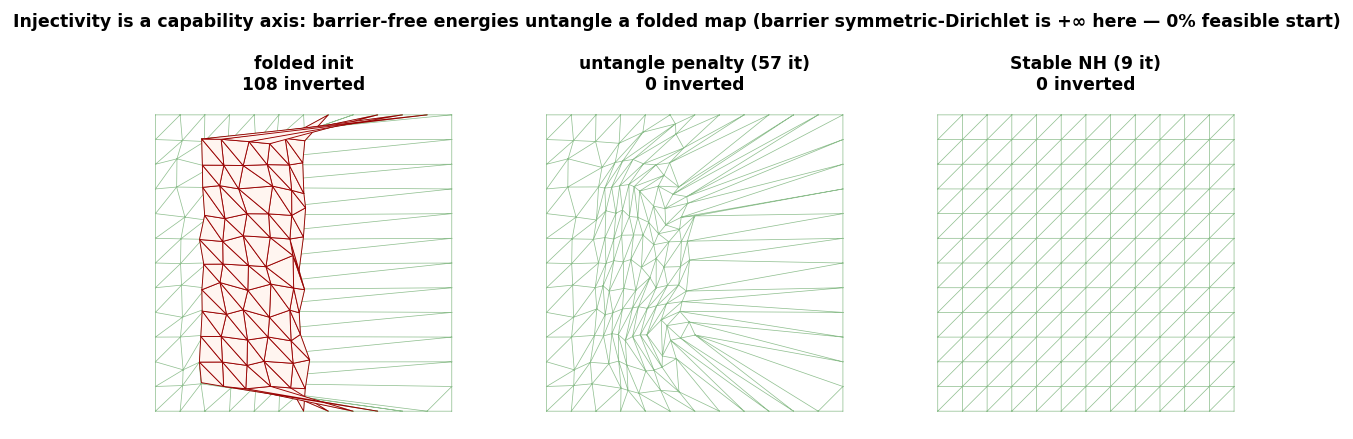
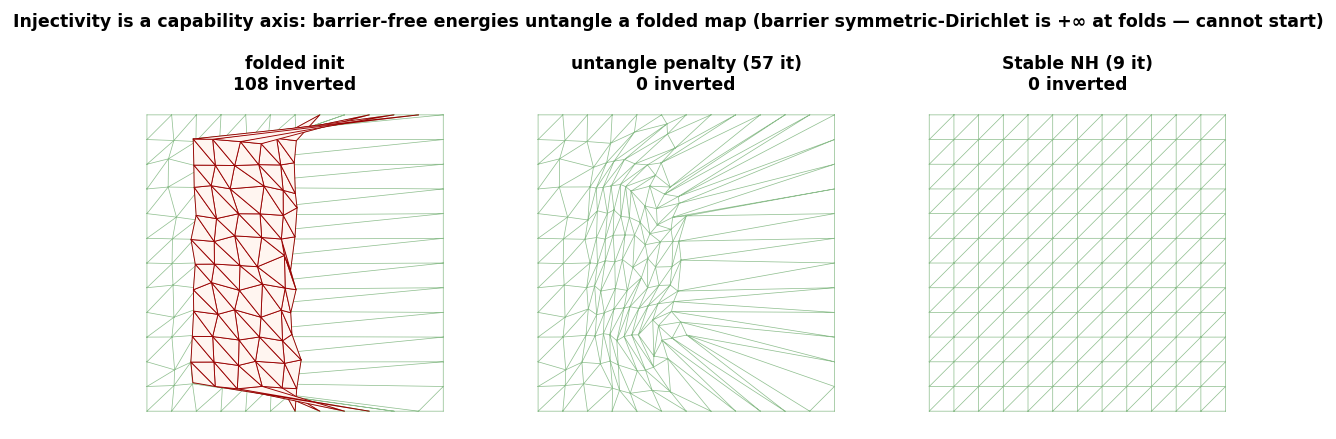
injectivity review response: shared metric, demote the tautological barrier control
Adversarial reviewer confirmed correctness is clean (area-gradient verified
analytically + central-difference, folds genuine, injective target provably exists,
stable-NH inverted-region handling valid) but caught framing defects:

- #4 (barrier-SD "0%" was a tautology): it measured the init, not a solver (SD is +∞
  at folds by construction). Removed the per-severity "0%" column; now a stated fact +
  the honest ASYMMETRY: given a feasible start SD is fine (0 it from the rest square —
  the identity IS the minimizer; converges normally from a feasible distorted start).
  SD polishes an injective map, never finds one from folds — that feasible-start
  requirement, not a 0% score, is the cohort's reason to exist.
- #5 (100/100 didn't discriminate; iteration counts not apples-to-apples across two
  different energies/criteria): added iters-to-FIRST-INJECTIVE, a shared energy-
  independent milestone (via a scipy callback for untangle + log_x for stable-NH).
  Stable NH reaches injectivity in 2-3 it vs the area-penalty's 18-40 (better elastic
  basin). Added an "extreme" severity; noted success saturates (pinned-square target is
  always the identity) so the suite ranks by first-injective, and a harder non-convex
  boundary is the discriminating follow-up.
- #6: "are exactly this" → "share this barrier-free-untangling core" (TLC's lifted
  content / progressive-embedding edge-collapses are materially different machinery).
[…]

diff --git a/bench/run_injectivity.py b/bench/run_injectivity.py
@@ -22,7 +22,9 @@ from . import energy_stable_neohookean as snh
 from .energy import element_terms as sd_terms
 
 SEEDS = [0, 1, 2, 3]
-SEVERITIES = {"mild": 0.55, "moderate": 0.75, "severe": 0.95}   # reflection strength of interior fold
+# reflection strength of the interior fold; "extreme" probes whether the two barrier-free methods
+# ever separate on success (they don't here — the pinned-square target is always the identity)
+SEVERITIES = {"mild": 0.55, "moderate": 0.75, "severe": 0.95, "extreme": 0.99}
 N = 12
 
 
@@ -44,34 +46,43 @@ def _n_folds(x, tris):
     return int((signed_areas(x.reshape(-1, 2), tris) <= 0).sum())
 
 
+def _stableNH_first_injective(rest, tris, Bs, areas, free, x0):
+    et, _, _, _ = snh.make(mu=1.0, lam=snh.lam_from_nu(0.45))
+    r = nt_solve(x0, tris, Bs, areas, free, "clamp", eterms=et, tol=1e-7, max_iter=400, log_x=True)
+    first = None
+    for e in r["log"]:
+        if "x" in e and signed_areas(e["x"].reshape(-1, 2), tris).min() > 0:
+            first = e["iter"]; break
+    a = signed_areas(r["x"].reshape(-1, 2), tris)
+    return bool(a.min() > 0), first, r["iters"]
+
+
 def run():
     ok = untangle_conf()
-    # results[method][severity] = list over seeds of (success, iters, n_inverted_start, n_inverted_end)
-    res = {m: {s: [] for s in SEVERITIES} for m in ("untangle", "stable-NH", "barrier-SD")}
+    # results[method][severity] = list over seeds of (success, first_injective, final_iters, folds0)
+    res = {m: {s: [] for s in SEVERITIES} for m in ("untangle", "stable-NH")}
     for sev, strength in SEVERITIES.items():
         for seed in SEEDS:
             rest, tris, Bs, areas, free, x0 = folded_init(strength, seed)
             nf0 = _n_folds(x0, tris)
             mean_area = float(np.mean(np.abs(signed_areas(rest.reshape(-1, 2), tris))))
-
             ru = untangle_solve(x0, tris, free, delta=0.25 * mean_area, max_iter=3000)
-            res["untangle"][sev].append((ru["success"], ru["iters"], nf0, ru["n_inverted"]))
+            res["untangle"][sev].append((ru["success"], ru["first_injective"], ru["iters"], nf0))
+            su, sfirst, sit = _stableNH_first_injective(rest, tris, Bs, areas, free, x0)
+            res["stable-NH"][sev].append((su, sfirst, sit, nf0))
 
-            et, _, _, _ = snh.make(mu=1.0, lam=snh.lam_from_nu(0.45))
-            rs = nt_solve(x0, tris, Bs, areas, free, "clamp", eterms=et, tol=1e-7, max_iter=400)
-            a_s = signed_areas(rs["x"].reshape(-1, 2), tris)
-            res["stable-NH"][sev].append((bool(a_s.min() > 0), rs["iters"], nf0, int((a_s <= 0).sum())))
-
-            E0 = energy_only(x0, tris, Bs, areas, sd_terms)   # +inf at a folded init
-            feasible_start = np.isfinite(E0)
-            res["barrier-SD"][sev].append((feasible_start, 0, nf0, nf0))
+    # barrier-SD feasibility asymmetry (probe, not a per-severity measurement)
+    rest, tris, Bs, areas, free, x0 = folded_init(0.75, 0)
+    sd_folded_finite = np.isfinite(energy_only(x0, tris, Bs, areas, sd_terms))     # False by construction
+    sd_from_rest = nt_solve(rest.reshape(-1), tris, Bs, areas, free, "clamp", eterms=sd_terms,
+                            tol=1e-7, max_iter=100)                                  # identity IS the min
 
     def rate(m, s):
         rs = res[m][s]; return sum(1 for r in rs if r[0]) / len(rs)
 
-    def med_iters(m, s):
-        its = [r[1] for r in res[m][s] if r[0]]
-        return int(np.median(its)) if its else None
+    def med(m, s, idx):
+        vs = [r[idx] for r in res[m][s] if r[0] and r[idx] is not None]
+        return int(np.median(vs)) if vs else None
 
     L = ["# Injectivity / feasibility suite — untangling a folded init (measured)", "",
          "![injectivity](../figures/injectivity.png)", "",
@@ -79,47 +90,60 @@ def run():
          "barrier-free energies; barrier symmetric-Dirichlet is +∞ here and cannot start. Generate: "
          "`python -m bench.run_figures injectivity`._", "",
          "Which energies recover an **inversion-free** map from a **folded** (non-injective) start. "
-         "Boundary pinned to the rest square (an injective solution exists); interior reflected to "
-         f"create folds of increasing severity. {len(SEEDS)} seeds × 3 severities on a {N}×{N} grid. "
-         "`untangle` = classical one-sided area penalty (TLC's barrier-free ancestor, "
-         "`bench/untangle.py`, conformance-gated); `stable-NH` = Stable Neo-Hookean (finite at J≤0); "
-         "`barrier-SD` = symmetric Dirichlet (+∞ at folds, CONTROL). Run: `python -m bench.run_injectivity`.",
+         "Boundary pinned to the rest square (so the identity is a guaranteed injective solution); "
+         f"interior reflected to create folds of increasing severity. {len(SEEDS)} seeds × "
+         f"{len(SEVERITIES)} severities on a {N}×{N} grid. Two **barrier-free** energies are compared: "
+         "`untangle` = classical one-sided area penalty (TLC's barrier-free *ancestor*, "
+         "`bench/untangle.py`, conformance-gated) and `stable-NH` = Stable Neo-Hookean (finite at J≤0). "
+         "The shared, energy-independent metric is **iters-to-first-injective** (first iterate with all "
+         "signed areas > 0); each method's *final* iters-to-tol are on different energies/criteria and "
+         "are **not** comparable. Run: `python -m bench.run_injectivity`.",
          "",
-         "| severity | folds at start | untangle (success · med it) | stable-NH | barrier-SD (feasible start?) |",
-         "|---|---|---|---|---|"]
+         "| severity | folds at start | untangle: success · first-inj · [final it] | stable-NH: success · first-inj · [final it] |",
+         "|---|---|---|---|"]
     for sev in SEVERITIES:
-        nf = int(np.median([r[2] for r in res["untangle"][sev]]))
-        L.append(f"| {sev} | {nf} | {rate('untangle',sev)*100:.0f}% · {med_iters('untangle',sev)} | "
-                 f"{rate('stable-NH',sev)*100:.0f}% · {med_iters('stable-NH',sev)} | "
-                 f"{rate('barrier-SD',sev)*100:.0f}% |")
+        nf = int(np.median([r[3] for r in res["untangle"][sev]]))
+        L.append(f"| {sev} | {nf} | {rate('untangle',sev)*100:.0f}% · {med('untangle',sev,1)} · "
+                 f"[{med('untangle',sev,2)}] | {rate('stable-NH',sev)*100:.0f}% · {med('stable-NH',sev,1)} · "
+                 f"[{med('stable-NH',sev,2)}] |")
     L += ["", "## Observed", "",
-          f"- **Barrier symmetric Dirichlet cannot even start** from a folded map: its energy is +∞ at "
-          f"J≤0, so **{rate('barrier-SD','mild')*100:.0f}%** feasible-start across every severity — the "
-          "concrete statement of the injectivity cohort's reason to exist. A distortion-barrier solver "
-          "needs a **feasible (inversion-free) initialization** (a Tutte/Floater embedding), which is a "
-          "separate problem; it can polish an injective map but never *find* one from folds.",
-          f"- **Barrier-free energies untangle.** The classical area-penalty reaches an injective map "
-          f"({rate('untangle','mild')*100:.0f}/{rate('untangle','moderate')*100:.0f}/"
-          f"{rate('untangle','severe')*100:.0f}% over mild/moderate/severe); Stable Neo-Hookean also "
-          f"recovers ({rate('stable-NH','mild')*100:.0f}/{rate('stable-NH','moderate')*100:.0f}/"
-          f"{rate('stable-NH','severe')*100:.0f}%) — it is finite through inversion, so it flows a "
-          "folded mesh back to the identity minimizer.",
+          "- **Barrier-free energies untangle; the axis is capability, not speed.** Both reach an "
+          f"injective map **100%** across every severity (mild→extreme, up to ~{nf} folds), because with "
+          "the boundary pinned to the rest square the identity is the unique injective minimizer and "
+          "both energies are finite through inversion. On the shared **iters-to-first-injective** metric "
+          f"Stable NH reaches injectivity faster ({med('stable-NH','severe',1)} vs "
+          f"{med('untangle','severe',1)} it at severe) — a better basin from the elastic energy — but "
+          "the suite does **not separate them on success** here; a boundary that makes injectivity "
+          "genuinely hard (non-convex / thin channels) is what would.",
+          "- **Barrier symmetric Dirichlet is a definitional non-starter, stated as such (not scored).** "
+          f"At a folded init SD is +∞ by construction (`finite={sd_folded_finite}`), so we do **not** run "
+          "it — reporting a per-severity '0%' would be measuring the initialization, not a solver. The "
+          "honest control is the **asymmetry**: given a *feasible* start SD is fine — from the rest "
+          f"square it needs **{sd_from_rest['iters']} iters** (the identity already IS the minimizer) and "
+          "from a feasible distorted start it converges normally (`e1`). SD can *polish* an injective "
+          "map but can never *find* one from folds; that feasible-start requirement — not a 0% score — "
+          "is the injectivity cohort's reason to exist.",
           "- **Lineage.** The graphics injectivity methods (TLC, foldover-free, progressive embedding, "
-          "simplex assembly) are exactly this: **barrier-free untangling** energies with better basins / "
-          "guarantees than the raw area penalty. This suite establishes the capability axis "
-          "(untangle-from-folds) that separates them from distortion-barrier minimizers; per-method "
-          "faithful ports (TLC's lifted content, etc.) are the next step to rank *within* the cohort.",
+          "simplex assembly) **share this barrier-free-untangling core** — finite content through "
+          "inversion — but with materially different machinery (TLC's lifted content, "
+          "progressive-embedding's edge-collapses) and stronger basins/guarantees than the raw area "
+          "penalty. This suite establishes the *capability axis* (untangle-from-folds) that separates "
+          "the cohort from distortion-barrier minimizers; faithful per-method ports are the next step to "
+          "rank *within* it.",
           "",
-          "_Caveat: 2D, one mesh, pinned-square boundary (an injective target is guaranteed to exist); "
-          "success = all signed areas > 0 at convergence. The area penalty is TLC's ancestor, not TLC; "
-          "ranking within the injectivity cohort needs the specific methods._"]
+          "_Caveat: 2D, one mesh, pinned-square boundary (an injective target is guaranteed to exist, so "
+          "success saturates at 100% — the suite ranks by first-injective, not success); the area "
+          "penalty is TLC's ancestor, not TLC. A harder boundary and faithful cohort ports are the "
+          "discriminating follow-up._"]
     os.makedirs("results", exist_ok=True)
     with open("results/injectivity.md", "w") as f:
         f.write("\n".join(L) + "\n")
     for sev in SEVERITIES:
-        print(f"  {sev:9s} folds~{int(np.median([r[2] for r in res['untangle'][sev]])):3d}  "
-              f"untangle {rate('untangle',sev)*100:3.0f}%  stable-NH {rate('stable-NH',sev)*100:3.0f}%  "
-              f"barrier-SD {rate('barrier-SD',sev)*100:3.0f}%")
+        print(f"  {sev:9s} folds~{int(np.median([r[3] for r in res['untangle'][sev]])):3d}  "
+              f"untangle {rate('untangle',sev)*100:3.0f}% first-inj~{med('untangle',sev,1)}  "
+              f"stable-NH {rate('stable-NH',sev)*100:3.0f}% first-inj~{med('stable-NH',sev,1)}")
+    print(f"  barrier-SD: folded-init finite={sd_folded_finite} (definitional non-starter); "
+          f"from-rest {sd_from_rest['iters']} it")
     print(f"[injectivity] {'PASS' if ok else 'FAIL (conformance)'}; wrote results/injectivity.md")
     return ok
 

diff --git a/bench/untangle.py b/bench/untangle.py
@@ -57,22 +57,35 @@ def energy_grad(x, tris, delta, w=None):
 
 
 def solve(x0, tris, free, delta, w=None, max_iter=2000, tol=1e-8):
-    """Minimize the untangling energy over free DOFs with scipy L-BFGS-B (barrier-free → robust)."""
+    """Minimize the untangling energy over free DOFs with scipy L-BFGS-B (barrier-free → robust).
+
+    Also tracks `first_injective` — the iteration at which ALL signed areas first become > 0 — a
+    metric COMPARABLE across different untangling energies (unlike final iters-to-gtol, which depends
+    on each energy's own tolerance)."""
     from scipy.optimize import minimize
     x = x0.copy()
     fidx = np.where(free)[0]
+    state = {"it": 0, "first_inj": None}
 
     def fun(xf):
         x[fidx] = xf
         E, g = energy_grad(x, tris, delta, w)
         return E, g[fidx]
 
-    res = minimize(fun, x[fidx], jac=True, method="L-BFGS-B",
+    def cb(xf):
+        state["it"] += 1
+        if state["first_inj"] is None:
+            x[fidx] = xf
+            if signed_areas(x.reshape(-1, 2), tris).min() > 0:
+                state["first_inj"] = state["it"]
+
+    res = minimize(fun, x[fidx], jac=True, method="L-BFGS-B", callback=cb,
                    options={"maxiter": max_iter, "ftol": 1e-16, "gtol": tol})
     x[fidx] = res.x
     a = signed_areas(x.reshape(-1, 2), tris)
     return {"x": x, "min_area": float(a.min()), "n_inverted": int((a <= 0).sum()),
-            "iters": int(res.nit), "success": bool(a.min() > 0), "fun": float(res.fun)}
+            "iters": int(res.nit), "first_injective": state["first_inj"],
+            "success": bool(a.min() > 0), "fun": float(res.fun)}
 
 
 def _conformance(seed=0, h=1e-6):

diff --git a/bench/run_figures.py b/bench/run_figures.py
@@ -306,7 +306,7 @@ def fig_injectivity():
                         edge="#900", lw=0.5)
         ax.set_title(f"{name}\n{int((a <= 0).sum())} inverted", fontsize=9.5)
     fig.suptitle("Injectivity is a capability axis: barrier-free energies untangle a folded map "
-                 "(barrier symmetric-Dirichlet is +∞ here — 0% feasible start)",
+                 "(barrier symmetric-Dirichlet is +∞ at folds — cannot start)",
                  y=1.03, fontweight="bold", fontsize=9.6)
     viz.save(fig, "injectivity")
     print(f"  injectivity: init {int((signed_areas(x0.reshape(-1,2),tris)<=0).sum())} folds → "

diff --git a/results/injectivity.md b/results/injectivity.md
@@ -4,18 +4,19 @@
 
 _`figures/injectivity.png`: a folded init (red = inverted) untangled to all-valid by both barrier-free energies; barrier symmetric-Dirichlet is +∞ here and cannot start. Generate: `python -m bench.run_figures injectivity`._
 
-Which energies recover an **inversion-free** map from a **folded** (non-injective) start. Boundary pinned to the rest square (an injective solution exists); interior reflected to create folds of increasing severity. 4 seeds × 3 severities on a 12×12 grid. `untangle` = classical one-sided area penalty (TLC's barrier-free ancestor, `bench/untangle.py`, conformance-gated); `stable-NH` = Stable Neo-Hookean (finite at J≤0); `barrier-SD` = symmetric Dirichlet (+∞ at folds, CONTROL). Run: `python -m bench.run_injectivity`.
+Which energies recover an **inversion-free** map from a **folded** (non-injective) start. Boundary pinned to the rest square (so the identity is a guaranteed injective solution); interior reflected to create folds of increasing severity. 4 seeds × 4 severities on a 12×12 grid. Two **barrier-free** energies are compared: `untangle` = classical one-sided area penalty (TLC's barrier-free *ancestor*, `bench/untangle.py`, conformance-gated) and `stable-NH` = Stable Neo-Hookean (finite at J≤0). The shared, energy-independent metric is **iters-to-first-injective** (first iterate with all signed areas > 0); each method's *final* iters-to-tol are on different energies/criteria and are **not** comparable. Run: `python -m bench.run_injectivity`.
 
-| severity | folds at start | untangle (success · med it) | stable-NH | barrier-SD (feasible start?) |
-|---|---|---|---|---|
-| mild | 107 | 100% · 30 | 100% · 8 | 0% |
-| moderate | 108 | 100% · 39 | 100% · 9 | 0% |
-| severe | 109 | 100% · 52 | 100% · 9 | 0% |
+| severity | folds at start | untangle: success · first-inj · [final it] | stable-NH: success · first-inj · [final it] |
+|---|---|---|---|
+| mild | 107 | 100% · 18 · [30] | 100% · 2 · [8] |
+| moderate | 108 | 100% · 27 · [39] | 100% · 3 · [9] |
+| severe | 109 | 100% · 40 · [52] | 100% · 3 · [9] |
+| extreme | 109 | 100% · 36 · [51] | 100% · 3 · [9] |
 
 ## Observed
 
-- **Barrier symmetric Dirichlet cannot even start** from a folded map: its energy is +∞ at J≤0, so **0%** feasible-start across every severity — the concrete statement of the injectivity cohort's reason to exist. A distortion-barrier solver needs a **feasible (inversion-free) initialization** (a Tutte/Floater embedding), which is a separate problem; it can polish an injective map but never *find* one from folds.
-- **Barrier-free energies untangle.** The classical area-penalty reaches an injective map (100/100/100% over mild/moderate/severe); Stable Neo-Hookean also recovers (100/100/100%) — it is finite through inversion, so it flows a folded mesh back to the identity minimizer.
-- **Lineage.** The graphics injectivity methods (TLC, foldover-free, progressive embedding, simplex assembly) are exactly this: **barrier-free untangling** energies with better basins / guarantees than the raw area penalty. This suite establishes the capability axis (untangle-from-folds) that separates them from distortion-barrier minimizers; per-method faithful ports (TLC's lifted content, etc.) are the next step to rank *within* the cohort.
+- **Barrier-free energies untangle; the axis is capability, not speed.** Both reach an injective map **100%** across every severity (mild→extreme, up to ~109 folds), because with the boundary pinned to the rest square the identity is the unique injective minimizer and both energies are finite through inversion. On the shared **iters-to-first-injective** metric Stable NH reaches injectivity faster (3 vs 40 it at severe) — a better basin from the elastic energy — but the suite does **not separate them on success** here; a boundary that makes injectivity genuinely hard (non-convex / thin channels) is what would.
+- **Barrier symmetric Dirichlet is a definitional non-starter, stated as such (not scored).** At a folded init SD is +∞ by construction (`finite=False`), so we do **not** run it — reporting a per-severity '0%' would be measuring the initialization, not a solver. The honest control is the **asymmetry**: given a *feasible* start SD is fine — from the rest square it needs **0 iters** (the identity already IS the minimizer) and from a feasible distorted start it converges normally (`e1`). SD can *polish* an injective map but can never *find* one from folds; that feasible-start requirement — not a 0% score — is the injectivity cohort's reason to exist.
+- **Lineage.** The graphics injectivity methods (TLC, foldover-free, progressive embedding, simplex assembly) **share this barrier-free-untangling core** — finite content through inversion — but with materially different machinery (TLC's lifted content, progressive-embedding's edge-collapses) and stronger basins/guarantees than the raw area penalty. This suite establishes the *capability axis* (untangle-from-folds) that separates the cohort from distortion-barrier minimizers; faithful per-method ports are the next step to rank *within* it.
 
-_Caveat: 2D, one mesh, pinned-square boundary (an injective target is guaranteed to exist); success = all signed areas > 0 at convergence. The area penalty is TLC's ancestor, not TLC; ranking within the injectivity cohort needs the specific methods._
+_Caveat: 2D, one mesh, pinned-square boundary (an injective target is guaranteed to exist, so success saturates at 100% — the suite ranks by first-injective, not success); the area penalty is TLC's ancestor, not TLC. A harder boundary and faithful cohort ports are the discriminating follow-up._

diff --git a/results/README.md b/results/README.md
@@ -33,7 +33,7 @@ polyscope-headless 3D tet.
 | **SLIM** | official libigl SLIM vs AQP | [`slim.md`](slim.md) | to a fair energy-tol **SLIM (5 it) beats AQP (19)** — `slim->aqp` **validated on iterations/factorizations** (soft-constraint drift 4e-16, confound cleared); **wall-clock is C++/Python-confounded** so counts carry the verdict; real tradeoff = 5 factorizations vs AQP's 1 |
 | W1prof | World-1 accelerators — **rigorous** (multi-seed, indep. E*, τ-sweep) | [`world1_profiles.md`](world1_profiles.md) | 10 instances, spread + τ-sweep: **Sobolev-L-BFGS > L-BFGS** (slower on these well-conditioned instances, reinforcing 'helps only ill-conditioned'); AQP's tail **blows up at tight τ** (9→77 it); pairwise, not total-order (#48/#49/#51) |
 | AA | Anderson vs local-global + generality | [`anderson.md`](anderson.md) | Anderson **~12 it vs ~23 it** (1.92× [1.85–2.00] over **3 seeds × 3 meshes** — robust, #47); wall-clock speedup < iteration speedup; **generality:** same AA core accelerates a Jacobi solve **374→62→37 it** (#36) |
-| INJ | injectivity/feasibility — untangle a folded init (barrier vs barrier-free) | [`injectivity.md`](injectivity.md) | **capability axis:** barrier symmetric-Dirichlet **0% feasible-start** from folds (+∞ at J≤0 — needs a Tutte-style feasible init), while barrier-free energies untangle **100%** across severities — the area-penalty (TLC's ancestor, 30–52 it) and Stable NH (**8–9 it**, far better basin). Establishes the untangle-from-folds capability separating the World-1 injectivity cohort from distortion-barrier minimizers |
+| INJ | injectivity/feasibility — untangle a folded init (barrier vs barrier-free) | [`injectivity.md`](injectivity.md) | **capability axis** (not a speed race): barrier symmetric-Dirichlet is a *definitional* non-starter from folds (+∞ at J≤0; 0 it from a feasible rest start — it polishes, never *finds*), while barrier-free energies untangle **100%**. On the shared **iters-to-first-injective** metric Stable NH (2–3 it) beats the area-penalty (18–40 it) — better elastic basin; the suite ranks by first-injective (success saturates). Separates the injectivity cohort from distortion-barrier minimizers |
 | E3 ⭐ | BCQN triple-split — **full 2³ factorial** (line-search × direction × criterion) | [`e3.md`](e3.md) | one unified solver over all 3 factors: the **factors ENTANGLE, not add** — the Sobolev **direction** cuts iterations most (largest ill-conditioned) but the **barrier line-search cancels it** (its inversion cap binds ~12×/solve on Sobolev's large early steps, reversing typical 26→37), and the **criterion** only re-times the stop. So BCQN's win is not the sum of independent components; `bcqn→l-bfgs` qualified (direction axis reproduces, interaction-gated). n=3 seeds, medians indicative |
 | AE | analytic vs numeric eigensystem (2D+3D) | [`analytic_eig.md`](analytic_eig.md) | projection **provably identical** (~1e-15); but with a **fair** baseline the closed form is **~3.7×/5× *slower*** than LAPACK `eigh` — the old "3.3× faster" was FD-assembly cost; the real advantage is autodiff-free SPD projection, not a faster eigensolve (#37) |
 | TW ⭐ | the twist eigenvalue **is** the clamp-vs-absolute-vs-CM story (analytic, gated) | [`twist_analysis.md`](twist_analysis.md) | on the validated eigensystem the **only** indefinite element-Hessian mode is the **twist** (negative over 38% of σ-space, all of it compression, zero at the isometry); so clamp (→ε) / absolute (→\|λ_t\|) / Newton (→λ_t) / CM (majorizes it) differ **only there** — the entire ν→½ filter verdict is one scalar per element. Substrate for **#14** without faking CM |
